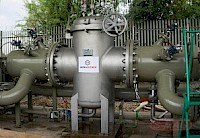
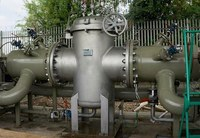
feat(images): install the supplied replacement photography
Four images, all Saahil's own:

  modular-pipeline-filter  reshot without the ULTRAFILTREX placard or the
                           Eclipse roundel, 1248x864
  coolant-filter-group     the filter pair without the Filtramag printing,
                           1008x1049, S-MAG mark applied as labelled
  about-banner-mobile      team photo enlarged, 640x834 -> 896x1166
  contact-banner-mobile    team photo enlarged, 640x834 -> 896x1166

Each product image is written into every rendition the site references,
fitted to the box its filename encodes, so the dimensions match what the
pages already declare. The mark is applied per rendition at the
catalogue's settings, matching watermark_catalogue_images.py.

The banners' width and height attributes are updated to the new intrinsic
size so the aspect-ratio hint stays honest. The About crop stays at 15%,
which clears the tallest man's head on the new frame too.

Masters kept under assets/source/supplied/.

diff --git a/site/company/about-us/index.html b/site/company/about-us/index.html
@@ -33,8 +33,8 @@ Products</a><div class=children><ul><li><a href=/products/filtration-systems/ da
 Industries</a><li><a href=/resources/guides/>
 Guides</a><li><a href=/company/about-us/>
 About Us</a><li><a href=/contact-us/>
-Contact Us</a></ul></div></div><main><div class=content-wrapper><div class="banner row"><div class=row__inner><div class=banner__text><h1 class=regular>About Us</h1></div></div><picture> <source srcset=/site/assets/images/about-banner-mobile.jpg width=640 height=834>
-<img style="object-position:50% 24%" src=/site/assets/images/about-banner-mobile.jpg width=640 height=834 alt="The Santosh Magnetic Works team at our Mumbai works" /></picture></div><div class="row row--breadcrumbs"><div class=breadcrumbs><div class=row__inner><span>&nbsp;/&nbsp;</span>
+Contact Us</a></ul></div></div><main><div class=content-wrapper><div class="banner row"><div class=row__inner><div class=banner__text><h1 class=regular>About Us</h1></div></div><picture> <source srcset=/site/assets/images/about-banner-mobile.jpg width=896 height=1166>
+<img style="object-position:50% 15%" src=/site/assets/images/about-banner-mobile.jpg width=896 height=1166 alt="The Santosh Magnetic Works team at our Mumbai works" /></picture></div><div class="row row--breadcrumbs"><div class=breadcrumbs><div class=row__inner><span>&nbsp;/&nbsp;</span>
 About Us </div></div></div><div class="row row--alt"><div class="row__inner content content--text_2"><div><h6>About SMAG</h6><h2>A Mumbai magnet workshop, on production lines since 1978</h2></div><div class=content__body><p>We design, machine and test every unit at our own works in Dahisar, Mumbai. Nothing leaves until it has been matched to the job it is going to do. We have worked this way since 1978, for plants across India and for export.<p><strong>Every unit is sized from the application itself.</strong> Your material, your throughput and your load decide the pull, the reach and the housing we build.</div></div></div><div class="row"><div class="row__inner content image-text-pair image-text-pair--left"><div class=image-text-pair__image><div><img src=/site/assets/images/about-story.jpg width=1080 height=815 style="height:auto" alt="The Santosh Magnetic Works team at our Mumbai works" /></div></div><div class=image-text-pair__text><h3 class=bordered-header>Built in-house, matched to the job</h3><p>Magnet circuits, housings and machined faces are all made here, which puts build quality and delivery dates in our own hands. Inspection and dispatch run under an ISO 9001:2015 system.<p>Years after a unit ships we still carry spares for it, re-magnetise assemblies that have weakened, and service what we sold.</div></div></div><div class="row statistics"><div class=row__inner><div class=statistics__item><p class=title>1978 <span></span><p class=text>The year we started making magnets in Mumbai </div><div class=statistics__item><p class=title>ISO 9001 <span></span><p class=text>Quality system certified for manufacture and export </div><div class=statistics__item><p class=title>4.7 / 5 <span></span><p class=text>Average across 23 customer reviews </div><div class=statistics__item><p class=title>Export <span></span><p class=text>Shipped to plants across India and overseas </div></div></div><div class="row row--alt"><div class="row__inner row__intro"><h3 class=bordered-header>How we specify a magnet</h3><p class=intro>The same three steps for one stock magnet and for a separator built around your line.</div><div class="row__inner icon_boxes_1" style="grid-template-columns:repeat(3,minmax(0,1fr))"><div class="icon_boxes_1__item alt-swap"><div><h4>01. Read the application</h4><span>What is the material, how fast is it moving, how much room is there, and what are you trying to catch or lift. </span></div></div><div class="icon_boxes_1__item alt-swap"><div><h4>02. Match the circuit</h4><span>Pull, reach, pole layout and housing get sized to those answers and drawn up for your line. </span></div></div><div class="icon_boxes_1__item alt-swap"><div><h4>03. Build, test and dispatch</h4><span>Made, tested and packed here. Servicing and spares later come from the same workshop. </span></div></div></div></div><div class="row"><div class="row__inner row__intro"><h3 class=bordered-header>What stays under our control</h3><p class=intro>The stages we handle on our own floor.</div><div class="row__inner icon_boxes_1"><div class="icon_boxes_1__item alt-swap"><div><h4>Application review</h4><span>We look at the material, the load, the flow and the space you have before anything gets selected. </span></div></div><div class="icon_boxes_1__item alt-swap"><div><h4>Magnet circuit</h4><span>Pull, reach and pole layout matched to the separation, lifting or holding task in front of us. </span></div></div><div class="icon_boxes_1__item alt-swap"><div><h4>Fabrication</h4><span>Housings, frames and working faces built to take daily plant-floor use. </span></div></div><div class="icon_boxes_1__item alt-swap"><div><h4>Inspection</h4><span>Every unit checked against the order and the application before it leaves. </span></div></div><div class="icon_boxes_1__item alt-swap"><div><h4>Packing and supply</h4><span>Packed for the journey, whether that is across Mumbai or onto an export container. </span></div></div><div class="icon_boxes_1__item alt-swap"><div><h4>After-sales support</h4><span>Spares, servicing and re-magnetising, years after the sale. </span></div></div></div></div><div class="row row--alt"><div class="row__inner row__intro"><h3 class=bordered-header>The people behind SMAG</h3></div><div class=row__inner><div class="grid grid--about" style="grid-template-columns:repeat(2,minmax(0,1fr));max-width:850px"><div class=grid__item><div class=team__item><div class=team__image><img src=/site/assets/images/team-rahul-ingle.jpg width=543 height=724 style="height:auto" alt="Rahul Ingle" /><h3>Rahul Ingle</h3></div><h6 class=bordered-header>CEO</h6></div></div><div class=grid__item><div class=team__item><div class=team__image><img src=/site/assets/images/team-sushil-ingle.jpg width=543 height=724 style="height:auto" alt="Sushil Ingle" /><h3>Sushil Ingle</h3></div><h6 class=bordered-header>COO</h6></div></div></div></div></div><div class="row"><div class="row__inner row__intro"><h3 class=bordered-header>Who we supply</h3><p class=intro>Plants in food, plastics, chemicals, automotive and general engineering.</div><div class=row__inner><div class=clients-strip><img src=/site/assets/images/clients/astral.png alt="Astral" loading=lazy decoding=async><img src=/site/assets/images/clients/britannia.png alt="Britannia" loading=lazy decoding=async><img src=/site/assets/images/clients/camlin-kokuyo.png alt="Camlin Kokuyo" loading=lazy decoding=async><img src=/site/assets/images/clients/castrol.png alt="Castrol" loading=lazy decoding=async><img src=/site/assets/images/clients/doms.png alt="DOMS" loading=lazy decoding=async><img src=/site/assets/images/clients/dukes.png alt="Dukes" loading=lazy decoding=async><img src=/site/assets/images/clients/empire-spices.png alt="Empire Spices" loading=lazy decoding=async><img src=/site/assets/images/clients/finolex.png alt="Finolex" loading=lazy decoding=async><img src=/site/assets/images/clients/hppl.png alt="HPPL" loading=lazy decoding=async><img src=/site/assets/images/clients/itc.svg alt="ITC" loading=lazy decoding=async><img src=/site/assets/images/clients/johnson-matthey.png alt="Johnson Matthey" loading=lazy decoding=async><img src=/site/assets/images/clients/kabra.png alt="Kabra" loading=lazy decoding=async><img src=/site/assets/images/clients/klassic-klarol.png alt="Klassic Klarol" loading=lazy decoding=async><img src=/site/assets/images/clients/kleenoil.png alt="Kleenoil" loading=lazy decoding=async><img src=/site/assets/images/clients/lotte-chemical.png alt="Lotte Chemical" loading=lazy decoding=async><img src=/site/assets/images/clients/lucas.png alt="Lucas" loading=lazy decoding=async><img src=/site/assets/images/clients/matsui.png alt="Matsui" loading=lazy decoding=async><img src=/site/assets/images/clients/motan.png alt="Motan" loading=lazy decoding=async><img src=/site/assets/images/clients/nayara.png alt="Nayara" loading=lazy decoding=async><img src=/site/assets/images/clients/nilkamal.png alt="Nilkamal" loading=lazy decoding=async><img src=/site/assets/images/clients/parle.svg alt="Parle" loading=lazy decoding=async><img src=/site/assets/images/clients/patanjali.png alt="Patanjali" loading=lazy decoding=async><img src=/site/assets/images/clients/prince-pipe.png alt="Prince Pipe" loading=lazy decoding=async><img src=/site/assets/images/clients/priyagold.png alt="Priyagold" loading=lazy decoding=async><img src=/site/assets/images/clients/reliance.png alt="Reliance" loading=lazy decoding=async><img src=/site/assets/images/clients/shibaura.png alt="Shibaura" loading=lazy decoding=async><img src=/site/assets/images/clients/smoor.png alt="Smoor" loading=lazy decoding=async><img src=/site/assets/images/clients/times-automation.png alt="Times Automation" loading=lazy decoding=async><img src=/site/assets/images/clients/uno-minda.png alt="UNO Minda" loading=lazy decoding=async><img src=/site/assets/images/clients/wittmann.png alt="Wittmann" loading=lazy decoding=async></div><p class=clients-more>+ many more</p></div></div></div><div class="row row--action"><div class=row__inner><h3><a href=/contact-us/>
 Tell us about the application and we will come back with a recommendation <i aria-hidden=true class=icon></i> </a></h3></div></div></main><footer class=footer><div class=row><div class="row__inner footer-columns"><div><img src=/site/assets/images/logo.svg width=124 height=40 alt="Santosh Magnetic Works"><p class=address>Santosh Magnetic Works<br>026 / 177, Sarita Indl Estate, A Wing<br>Prabhat Complex, Near Toll Plaza<br>W E Highway, Dahisar East<br>Mumbai, Maharashtra 400068<br>India<br><br>GSTIN 27ABDFS2378H1ZY <p class=address><a href="mailto:queries@santoshmagneticworks.com"><i class="fas fa-envelope fa-lg fa-fw"></i> queries@santoshmagneticworks.com</a><br> <a href="tel:+919920143922"><i class="fas fa-phone fa-lg fa-fw"></i> +91 99201 43922</a> </div><div><h6>Information</h6><ul><li><a href=/company/about-us/>About Us</a><li><a href=/products/filtration-systems/>Magnetic Filtration</a><li><a href=/products/magnetic-separation-and-metal-detection/>Magnetic Separation</a><li><a href=/products/magnetic-tools-and-standard-magnets/>Stock Magnets &amp; Tools</a><li><a href=/products/workholding-systems/>Workholding Systems</a><li><a href=/products/lifting-and-handling/>Lifting &amp; Handling</a><li><a href=/products/oil-and-gas-pipeline-filtration/>Pipeline Filtration</a></ul></div><div><h6>Helpful Links</h6><ul><li><a href=/brochures/>Download FREE Brochures</a><li><a href=/contact-us/>Contact Us</a><li><a href=/industries/>Industries</a><li><a href=/information/privacy-policy/>Privacy Policy</a><li><a href=/sitemap/>Sitemap</a></ul></div><div><h6>Social</h6><ul><li><a href=https://wa.me/919920143922 target=_blank rel=noopener> <i class="fab fa-lg fa-fw fa-whatsapp"></i>
 WhatsApp </a><li><a href=https://www.indiamart.com/santosh-magnetic-works/ target=_blank rel=noopener> <i class="fas fa-lg fa-fw fa-store"></i>

diff --git a/site/contact-us/index.html b/site/contact-us/index.html
@@ -33,8 +33,8 @@ Products</a><div class=children><ul><li><a href=/products/filtration-systems/ da
 Industries</a><li><a href=/resources/guides/>
 Guides</a><li><a href=/company/about-us/>
 About Us</a><li><a href=/contact-us/>
-Contact Us</a></ul></div></div><main><div class="content-wrapper content-wrapper--alt"><div class="banner row"><div class=row__inner><div class=banner__text><h1 class=regular>Contact Us</h1></div></div><picture> <source srcset=/site/assets/images/contact-banner-mobile.jpg width=640 height=834>
-<img style="object-position:50% 24%" src=/site/assets/images/contact-banner-mobile.jpg width=640 height=834 alt="The Santosh Magnetic Works team at our Mumbai works" /></picture></div><div class=breadcrumbs><div class=row__inner><span>&nbsp;/&nbsp;</span>
+Contact Us</a></ul></div></div><main><div class="content-wrapper content-wrapper--alt"><div class="banner row"><div class=row__inner><div class=banner__text><h1 class=regular>Contact Us</h1></div></div><picture> <source srcset=/site/assets/images/contact-banner-mobile.jpg width=896 height=1166>
+<img style="object-position:50% 24%" src=/site/assets/images/contact-banner-mobile.jpg width=896 height=1166 alt="The Santosh Magnetic Works team at our Mumbai works" /></picture></div><div class=breadcrumbs><div class=row__inner><span>&nbsp;/&nbsp;</span>
 Contact Us </div></div><div class=row><div class="row__inner row__intro content content--text_2"><h2>Tell us what you need to separate, filter, lift or hold.</h2><p>Send us the details and we will come back with a recommendation and a price. If it is urgent, call or WhatsApp the numbers alongside and someone at the works will pick up.</div></div><div class=row><div class="row__inner contact-detail"><div class=contact-detail__form><form class="FormBuilderFrameworkBasic FormBuilder InputfieldFormWidths InputfieldForm" id=FormBuilder_enquiry name=enquiry method=post action="https://api.web3forms.com/submit"><input type=hidden name=access_key value="54d3356e-73b2-40ba-ac62-a74fdb5e9032"><input type=hidden name=subject value="New enquiry from the SMAG website"><input type=hidden name=from_name value="Santosh Magnetic Works website"><input type=checkbox name=botcheck style="display:none" tabindex="-1" aria-hidden="true"><div class=Inputfields><div class='Inputfield Inputfield_name InputfieldText InputfieldStateRequired' id=wrap_Inputfield_name><label class=InputfieldHeader for=Inputfield_name>Your name</label><div class=InputfieldContent><input type=text class="required InputfieldMaxWidth" id=Inputfield_name name=Name maxlength=2048 required></div></div><div class='Inputfield Inputfield_company Inputfieldtext' id=wrap_Inputfield_company><label class=InputfieldHeader for=Inputfield_company>Company</label><div class=InputfieldContent><input type=text class=InputfieldMaxWidth id=Inputfield_company name=Company maxlength=2048></div></div><div class='Inputfield Inputfield_email InputfieldEmail InputfieldStateRequired' id=wrap_Inputfield_email><label class=InputfieldHeader for=Inputfield_email>Email address</label><div class=InputfieldContent><input type=email class="required InputfieldMaxWidth" id=Inputfield_email name=Email maxlength=2048 required></div></div><div class='Inputfield Inputfield_phone InputfieldText InputfieldStateRequired' id=wrap_Inputfield_phone><label class=InputfieldHeader for=Inputfield_phone>Phone number</label><div class=InputfieldContent><input type=tel class="required InputfieldMaxWidth" id=Inputfield_phone name=Phone maxlength=2048 required></div></div><div class='Inputfield Inputfield_location InputfieldSelect InputfieldStateRequired' id=wrap_Inputfield_location><label class=InputfieldHeader for=Inputfield_location>Where are you based?</label><div class=InputfieldContent><select class="required InputfieldMaxWidth" id=Inputfield_location name=Location required><option value disabled selected>Select...</option><option value="Mumbai">Mumbai</option><option value="Rest of India">Rest of India</option><option value="International">International (export)</option></select></div></div><div class='Inputfield Inputfield_enquiry InputfieldSelect InputfieldStateRequired' id=wrap_Inputfield_enquiry><label class=InputfieldHeader for=Inputfield_enquiry>What is your enquiry about?</label><div class=InputfieldContent><select class="required InputfieldMaxWidth" id=Inputfield_enquiry name=Enquiry required><option value disabled selected>Select...</option><option value="Magnetic separation">Magnetic separation</option><option value="Magnetic filtration">Magnetic filtration</option><option value="Lifting and handling">Lifting and handling</option><option value="Workholding">Workholding</option><option value="Spares or servicing">Spares or servicing</option><option value="Something else">Something else</option></select></div></div><div class='Inputfield Inputfield_message InputfieldTextarea InputfieldStateRequired' id=wrap_Inputfield_message><label class=InputfieldHeader for=Inputfield_message>Tell us about the application</label><div class=InputfieldContent><textarea class="required InputfieldMaxWidth" id=Inputfield_message name=Message rows=6 required></textarea></div></div><div class="Inputfield Inputfield_consent" id=wrap_consent><div class=InputfieldContent><p style="font-size:0.85em">We will use these details only to answer your enquiry. See our <a href="/information/privacy-policy/">Privacy Policy</a>.</p></div></div><div class="Inputfield Inputfield_submit InputfieldSubmit" id=wrap_submit><div class=InputfieldContent><button type=submit class=button>Send enquiry</button></div></div></div></form></div><div class=contact-detail__locations><h3 class=bordered-header>Our works</h3><div class=locations__item><div><p><strong>Santosh Magnetic Works</strong><address>026 / 177, Sarita Indl Estate, A Wing, Prabhat Complex, Near Toll Plaza, W E Highway, Dahisar East, Mumbai, Maharashtra 400068, India</address></div><div><p><i class="fas fa-phone fa-fw"></i> <a href="tel:+919920143922">+91 99201 43922</a><p><i class="fas fa-phone fa-fw"></i> <a href="tel:+919324315562">+91 93243 15562</a><p><i class="fas fa-phone fa-fw"></i> <a href="tel:+918286193555">+91 82861 93555</a><p><i class="fab fa-whatsapp fa-fw"></i> <a href="https://wa.me/919920143922" target=_blank rel="noopener noreferrer">Message us on WhatsApp</a><p><i class="fas fa-envelope fa-fw"></i> <a href="mailto:queries@santoshmagneticworks.com">queries@santoshmagneticworks.com</a><p><i class="fas fa-store fa-fw"></i> <a href="https://www.indiamart.com/santosh-magnetic-works/" target=_blank rel="noopener noreferrer">Our IndiaMART store</a><p class=c2a><a href="https://share.google/9DQHs89BFmkKijKhb" target=_blank rel="noopener noreferrer">Get directions</a></div></div></div></div></div></div></main><footer class=footer><div class="row row--alt"><div class="row__inner footer-columns"><div><img src=/site/assets/images/logo.svg width=124 height=40 alt="Santosh Magnetic Works"><p class=address>Santosh Magnetic Works<br>026 / 177, Sarita Indl Estate, A Wing<br>Prabhat Complex, Near Toll Plaza<br>W E Highway, Dahisar East<br>Mumbai, Maharashtra 400068<br>India<br><br>GSTIN 27ABDFS2378H1ZY <p class=address><a href="mailto:queries@santoshmagneticworks.com"><i class="fas fa-envelope fa-lg fa-fw"></i> queries@santoshmagneticworks.com</a><br> <a href="tel:+919920143922"><i class="fas fa-phone fa-lg fa-fw"></i> +91 99201 43922</a> </div><div><h6>Information</h6><ul><li><a href=/company/about-us/>About Us</a><li><a href=/products/filtration-systems/>Magnetic Filtration</a><li><a href=/products/magnetic-separation-and-metal-detection/>Magnetic Separation</a><li><a href=/products/magnetic-tools-and-standard-magnets/>Stock Magnets &amp; Tools</a><li><a href=/products/workholding-systems/>Workholding Systems</a><li><a href=/products/lifting-and-handling/>Lifting &amp; Handling</a><li><a href=/products/oil-and-gas-pipeline-filtration/>Pipeline Filtration</a></ul></div><div><h6>Helpful Links</h6><ul><li><a href=/brochures/>Download FREE Brochures</a><li><a href=/contact-us/>Contact Us</a><li><a href=/industries/>Industries</a><li><a href=/information/privacy-policy/>Privacy Policy</a><li><a href=/sitemap/>Sitemap</a></ul></div><div><h6>Social</h6><ul><li><a href=https://wa.me/919920143922 target=_blank rel=noopener> <i class="fab fa-lg fa-fw fa-whatsapp"></i>
 WhatsApp </a><li><a href=https://www.indiamart.com/santosh-magnetic-works/ target=_blank rel=noopener> <i class="fas fa-lg fa-fw fa-store"></i>
 IndiaMART </a><li><a href=https://share.google/Yw1YuhYK5C84IgfGQ target=_blank rel=noopener> <i class="fab fa-lg fa-fw fa-google"></i>

diff --git a/tools/rebuild/install_supplied_images.py b/tools/rebuild/install_supplied_images.py
@@ -1,0 +1,162 @@
+#!/usr/bin/env python3
+"""Install the replacement photography supplied in ~/Downloads.
+
+Four images, all of them Saahil's own:
+
+  modular-pipeline-filter_new           the pipeline filter reshot without the
+                                        ULTRAFILTREX placard or Eclipse roundel
+  coolant-filter-group_new              the filter pair without the Filtramag
+                                        printing; wants the S-MAG mark added
+  Gemini_Generated_Image_akdm73...      About Us team photo, enlarged
+  Gemini_Generated_Image_5c61xk...      Contact Us team photo, enlarged
+
+Each product image is written into every rendition the site references, fitted
+to the box its filename encodes so the dimensions match what the pages already
+declare. The S-MAG mark is applied per rendition at the catalogue's own
+settings (22% of width, 18% opacity, bottom right), matching
+watermark_catalogue_images.py, and only where asked.
+
+The banners replace their file and the <picture> width/height attributes are
+updated to the new intrinsic size so the aspect-ratio hint stays honest.
+
+Masters are copied into assets/source/supplied/ so provenance is tracked.
+
+Run with --dry-run to report without writing.
+"""
+from __future__ import annotations
+
+import shutil
+import sys
+from pathlib import Path
+
+from PIL import Image
+
+sys.path.insert(0, str(Path(__file__).resolve().parent))
+import build_smag_product_pages as build  # noqa: E402
+
+REPO = Path("/Users/saahil/Documents/GitHub/smag")
+SITE = REPO / "site"
+DL = Path.home() / "Downloads"
+MASTERS = REPO / "assets/source/supplied"
+MANIFEST = REPO / "assets/source/watermarked.txt"
+DRY = "--dry-run" in sys.argv
+
+ECL = DL / "smag-eclipse-images/01-branding-in-photo"
+BAN = DL / "smag-banners/upscaled"
+
+# product image -> (source, watermark?, [(target, box_w, box_h)])
+PRODUCTS = {
+    "modular-pipeline-filter": (
+        ECL / "modular-pipeline-filter_new.jpeg", False,
+        [("site/assets/files/35852/modular-pipeline-filter.637x481.jpg", 637, 481),
+         ("site/assets/files/35926/modular-pipeline-filter.355x205.jpg", 355, 205),
+         ("site/assets/files/35926/modular-pipeline-filter.355x205.200x0.jpg", 200, 10000)],
+    ),
+    "coolant-filter-group": (
+        ECL / "coolant-filter-group_new_TO_ADD_WATERMARK-SMAG.jpeg", True,
+        [("site/assets/files/6812/coolant-filter-group.355x205.jpg", 355, 205)],
+    ),
+}
+
+# banner -> (source, site file, pages that declare its size)
+BANNERS = {
+    "about-banner-mobile": (
+        BAN / "Gemini_Generated_Image_akdm73akdm73akdm.jpeg",
+        "site/assets/images/about-banner-mobile.jpg",
+        ["company/about-us/index.html"],
+    ),
+    "contact-banner-mobile": (
+        BAN / "Gemini_Generated_Image_5c61xk5c61xk5c61.jpeg",
+        "site/assets/images/contact-banner-mobile.jpg",
+        ["contact-us/index.html"],
+    ),
+}
+
+
+def fit(im: Image.Image, bw: int, bh: int) -> Image.Image:
+    scale = min(bw / im.width, bh / im.height)
+    return im.resize((max(1, round(im.width * scale)),
+                      max(1, round(im.height * scale))), Image.LANCZOS)
+
+
+def stamp(im: Image.Image) -> Image.Image:
+    wm = build.logo_mark()
+    base = im.convert("RGBA")
+    W, H = base.size
+    tw = int(W * build.WM_WIDTH_FRAC)
+    if tw < 24:
+        return base
+    th = round(tw * wm.height / wm.width)
+    mark = wm.resize((tw, th), Image.LANCZOS)
+    mark.putalpha(mark.split()[-1].point(lambda v: int(v * build.WM_OPACITY)))
+    base.alpha_composite(mark, (W - tw - int(W * 0.035), H - th - int(H * 0.055)))
+    return base
+
+
+def save(im: Image.Image, dest: Path) -> None:
+    dest.parent.mkdir(parents=True, exist_ok=True)
+    if dest.suffix.lower() == ".png":
+        im.save(dest, "PNG", optimize=True)
+    else:
+        im.convert("RGB").save(dest, "JPEG", quality=88, optimize=True,
+                               progressive=True)
+
+
+def main() -> int:
+    for src, *_ in [(v[0],) for v in PRODUCTS.values()] + [(v[0],) for v in BANNERS.values()]:
+        if not src.is_file():
+            raise SystemExit(f"missing supplied image: {src}")
+
+    if not DRY:
+        MASTERS.mkdir(parents=True, exist_ok=True)
+
+    marked: list[str] = []
+    for name, (src, want_mark, targets) in PRODUCTS.items():
+        master = Image.open(src).convert("RGB")
+        print(f"{name}: {src.name} {master.size[0]}x{master.size[1]}"
+              + (" (+ S-MAG mark)" if want_mark else ""))
+        if not DRY:
+            shutil.copy2(src, MASTERS / f"{name}{src.suffix}")
+        for rel, bw, bh in targets:
+            out = SITE / rel
+            im = fit(master, bw, bh)
+            if want_mark:
+                im = stamp(im)
+                marked.append("/" + rel)
+            print(f"    {im.size[0]:>4}x{im.size[1]:<4}  {rel}")
+            if not DRY:
+                save(im, out)
+
+    for name, (src, rel, pages) in BANNERS.items():
+        master = Image.open(src).convert("RGB")
+        out = SITE / rel
+        with Image.open(out) as cur:
+            old = cur.size
+        print(f"{name}: {old[0]}x{old[1]} -> {master.size[0]}x{master.size[1]}")
+        if not DRY:
+            shutil.copy2(src, MASTERS / f"{name}{src.suffix}")
+            save(master, out)
+        for page in pages:
+            p = SITE / page
+            s = p.read_text(encoding="utf-8")
+            old_attr = f"width={old[0]} height={old[1]}"
+            if old_attr not in s:
+                raise SystemExit(f"size attributes {old_attr!r} not found in {page}")
+            n = s.count(old_attr)
+            s = s.replace(old_attr, f"width={master.size[0]} height={master.size[1]}")
+            print(f"    {page}: updated {n} size attribute pair(s)")
+            if not DRY:
+                p.write_text(s, encoding="utf-8")
+
+    if marked:
+        done = set(MANIFEST.read_text(encoding="utf-8").split()) if MANIFEST.exists() else set()
+        added = [u for u in marked if u not in done]
+        print(f"watermark manifest: {len(added)} new entr(ies)")
+        if not DRY and added:
+            MANIFEST.write_text("\n".join(sorted(done | set(marked))) + "\n",
+                                encoding="utf-8")
+    return 0
+
+
+if __name__ == "__main__":
+    raise SystemExit(main())

diff --git a/tools/rebuild/fix_banner_sources.py b/tools/rebuild/fix_banner_sources.py
@@ -36,7 +36,7 @@ FIXES = {
     "company/about-us/index.html": (
         '<source srcset=/site/assets/images/about-banner.jpg media="(min-width: 768px)" width=1280 height=360>\n',
         ('<img src=/site/assets/images/about-banner-mobile.jpg width=640 height=834 alt=',
-         '<img style="object-position:50% 24%" src=/site/assets/images/about-banner-mobile.jpg width=640 height=834 alt='),
+         '<img style="object-position:50% 15%" src=/site/assets/images/about-banner-mobile.jpg width=640 height=834 alt='),
     ),
     "contact-us/index.html": (
         '<source srcset=/site/assets/images/contact-banner.jpg media="(min-width: 768px)" width=1280 height=360>\n',
